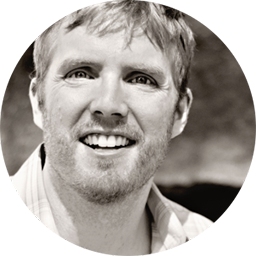
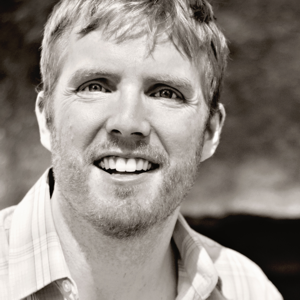
Modified slides, round images, changed pages

diff --git a/presentation/index.html b/presentation/index.html
@@ -28,72 +28,63 @@
 	<div class="reveal">
 		<div class="slides">
 			<section>
-				<h1>Introduction</h1>	
+				<h1>Hacking Fitness</h1>
+				<h2>with the MEAN stack</h2>
+				</br>
+				<div><img height="300px" src="waterbug-logo.png" alt="Waterbug Logo" /></div>
+			</section>
+			<section>
+				<h1>Who are we</h1>
 				<div class="profiles">
 					<div>
-						<img src="danielegan.png" alt="Picture of Daniel Egan"/>
+						<img class="img-circle"  src="danielegan.png" alt="Picture of Daniel Egan" />
 						<p>
-							<b>Daniel Egan</b><br/>
-							@danielegan<br/>
-							{profile text}
+							<b>Daniel Egan</b><br/> @danielegan
+							<br/> Technical Evangelist, Microsoft
+							<br/> http://TheSociableGeek.com
 						</p>
 					</div>
 					<div>
-						<img src="codefoster.png" alt="Picture of Jeremy Foster"/>
+						<img class="img-circle" height="200px" width="200px" src="codefoster.png" alt="Picture of Jeremy Foster" />
 						<p>
-							<b>Jeremy Foster</b><br/>
-							@codefoster<br/>
-							{profile text}
+							<b>Jeremy Foster</b><br/> @codefoster
+							<br/> Technical Evangelist, Microsoft
+							<br/> http://CodeFoster.com
 						</p>
 					</div>
 				</div>
 			</section>
 			<section>
-				<h1>Special Mention</h1>	
+				<h1>Special Mentions</h1>
 				<div class="profiles">
 					<div>
-						<img src="kristinottofy.png" alt="Picture of Kristin Ottofy"/>
+						<img class="img-circle" src="kristinottofy.png" alt="Picture of Kristin Ottofy" />
 						<p>
-							<b>Kristin Ottofy</b><br/>
-							@kristinottofy<br/>
-							{profile text}
+							<b>Kristin Ottofy</b><br/> @kristinottofy
+							<br/> Technical Evangelist, Micosoft
 						</p>
 					</div>
 					<div>
-						<!--<img src="kristinottofy.png" alt="Picture of Kristin Ottofy"/>-->
+						<img class="img-circle" src="scottl.jpg" alt="Picture of Kristin Ottofy" />
 						<p>
-							<b>{Water Rower provider?}</b><br/>
-							<!--@kristinottofy<br/>
-							{profile text}-->
+							<b>Scott Laurent</b>
+							<br/> slaurent@healthstylesexercise.com
+							<br/> HealthStyles Exercise Equipment
 						</p>
 					</div>
 				</div>
 			</section>
 			<section>
 				<section>
-					<div><img src="waterbug-logo.png" alt="Waterbug Logo" /></div>
+					<h2>How this project started</h2>
+					<br>
+					<div><img height="400px" src="waterbug-logo.png" alt="Waterbug Logo" /></div>
 				</section>
 				<section>
-					<div><img src="waterrower.jpg" alt="WaterRower"/></div>
+					<div><img src="waterrower.jpg" alt="WaterRower" /></div>
 				</section>
 				<section>
-					<div><img src="s4-monitor.jpg" alt="S4 Monitor"/></div>
-				</section>
-				<section>
-					<div class="competition">
-						<div>
-							<img src="competition-1.png" alt="S4 Monitor"/>
-							<p>WeRow</p>
-						</div>
-						<div>
-							<img src="competition-2.png" alt="S4 Monitor"/>
-							<p>WebRacing</p>
-						</div>
-						<div>
-							<img src="competition-3.png" alt="S4 Monitor"/>
-							<p>WaterCoach</p>
-						</div>
-					</div>
+					<div><img src="s4-monitor.jpg" alt="S4 Monitor" /></div>
 				</section>
 			</section>
 			<section>
@@ -103,7 +94,7 @@
 				</section>
 				<section>
 					</br>
-					<img src="WBOverview.png" alt="Picture of Waterbug Overview"/>
+					<img src="WBOverview.png" alt="Picture of Waterbug Overview" />
 				</section>
 			</section>
 			<section>

diff --git a/presentation/css/custom.css b/presentation/css/custom.css
@@ -1,3 +1,8 @@
+.img-circle {
+    border-radius: 50%;
+    height: 200px;
+    width: 200px;
+}
 .reveal section img {
   margin: 15px 0px;
   background: rgba(255, 255, 255, 0.12);
